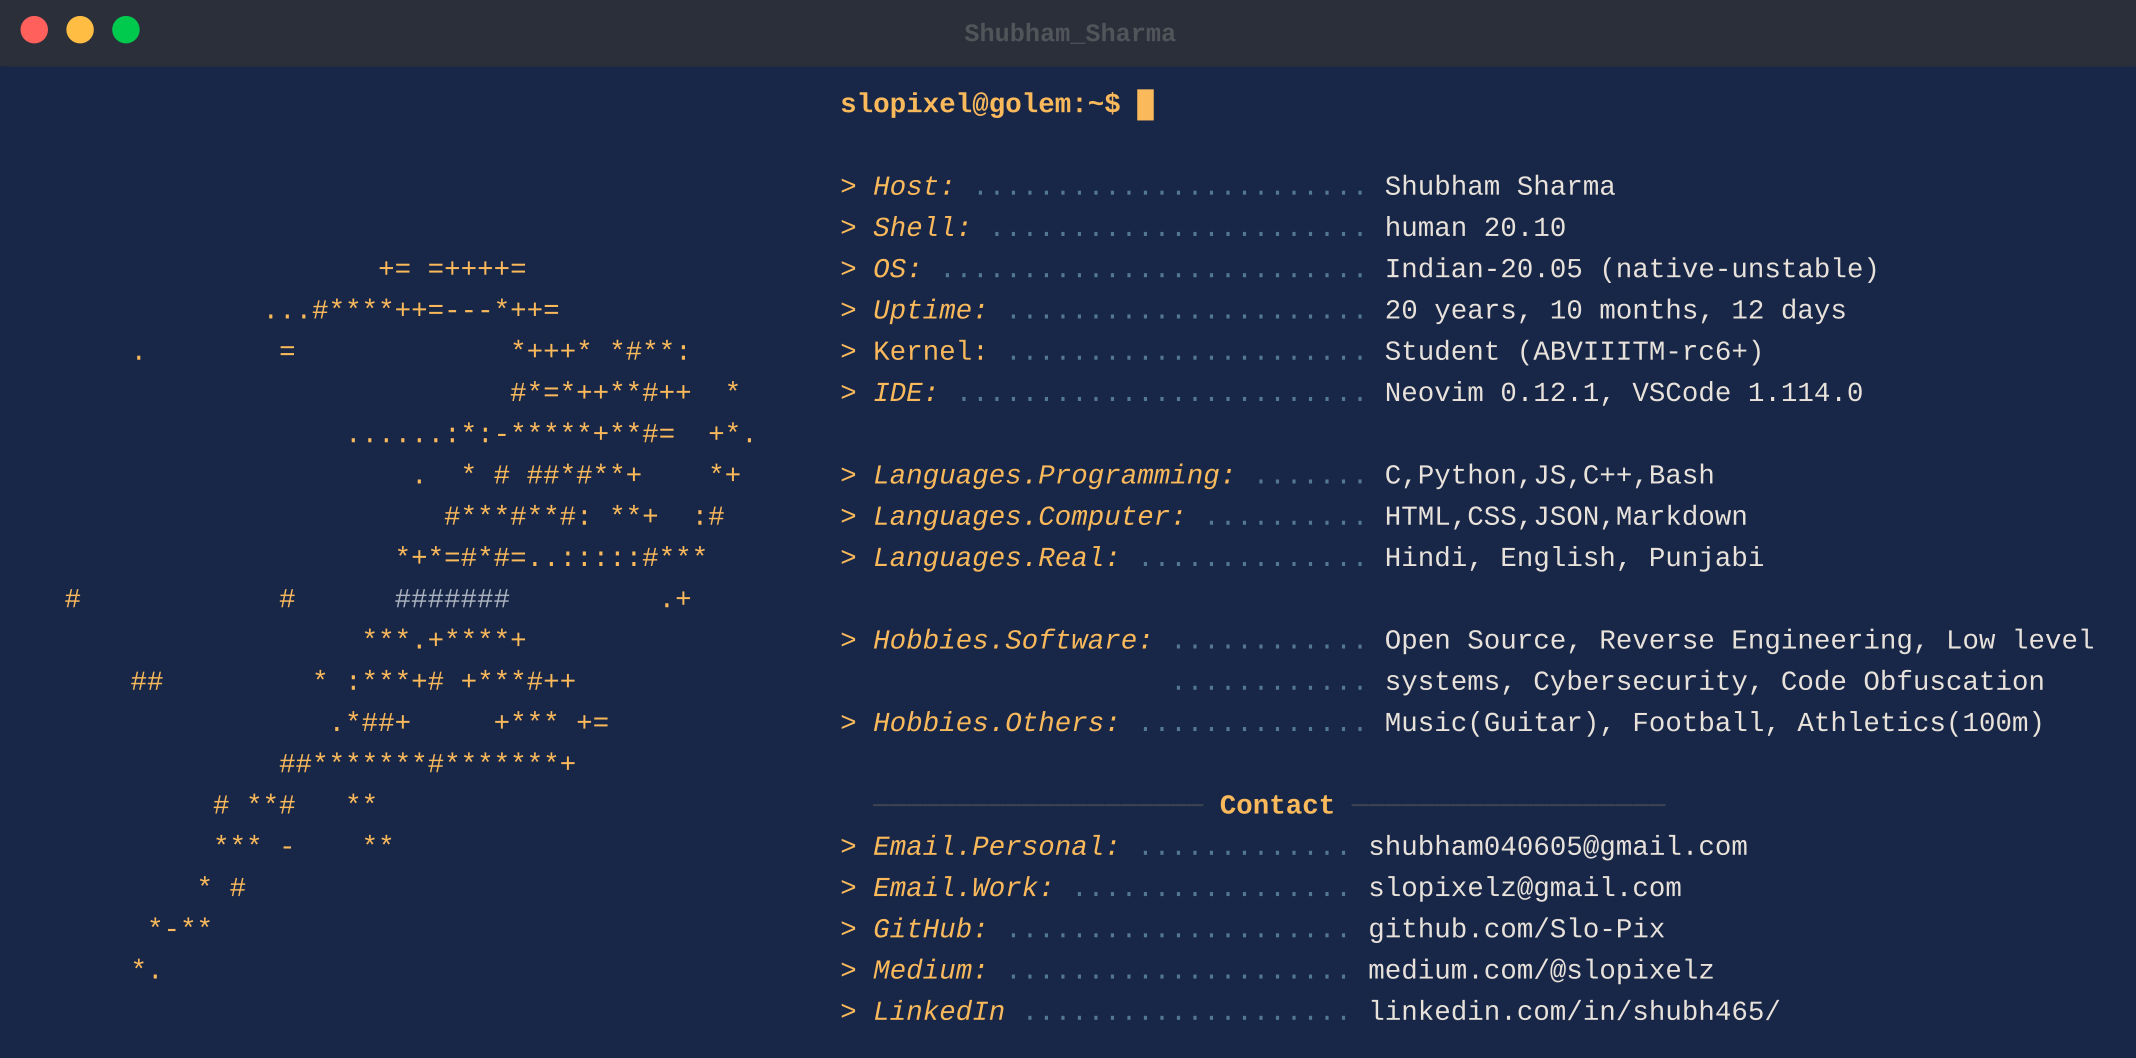
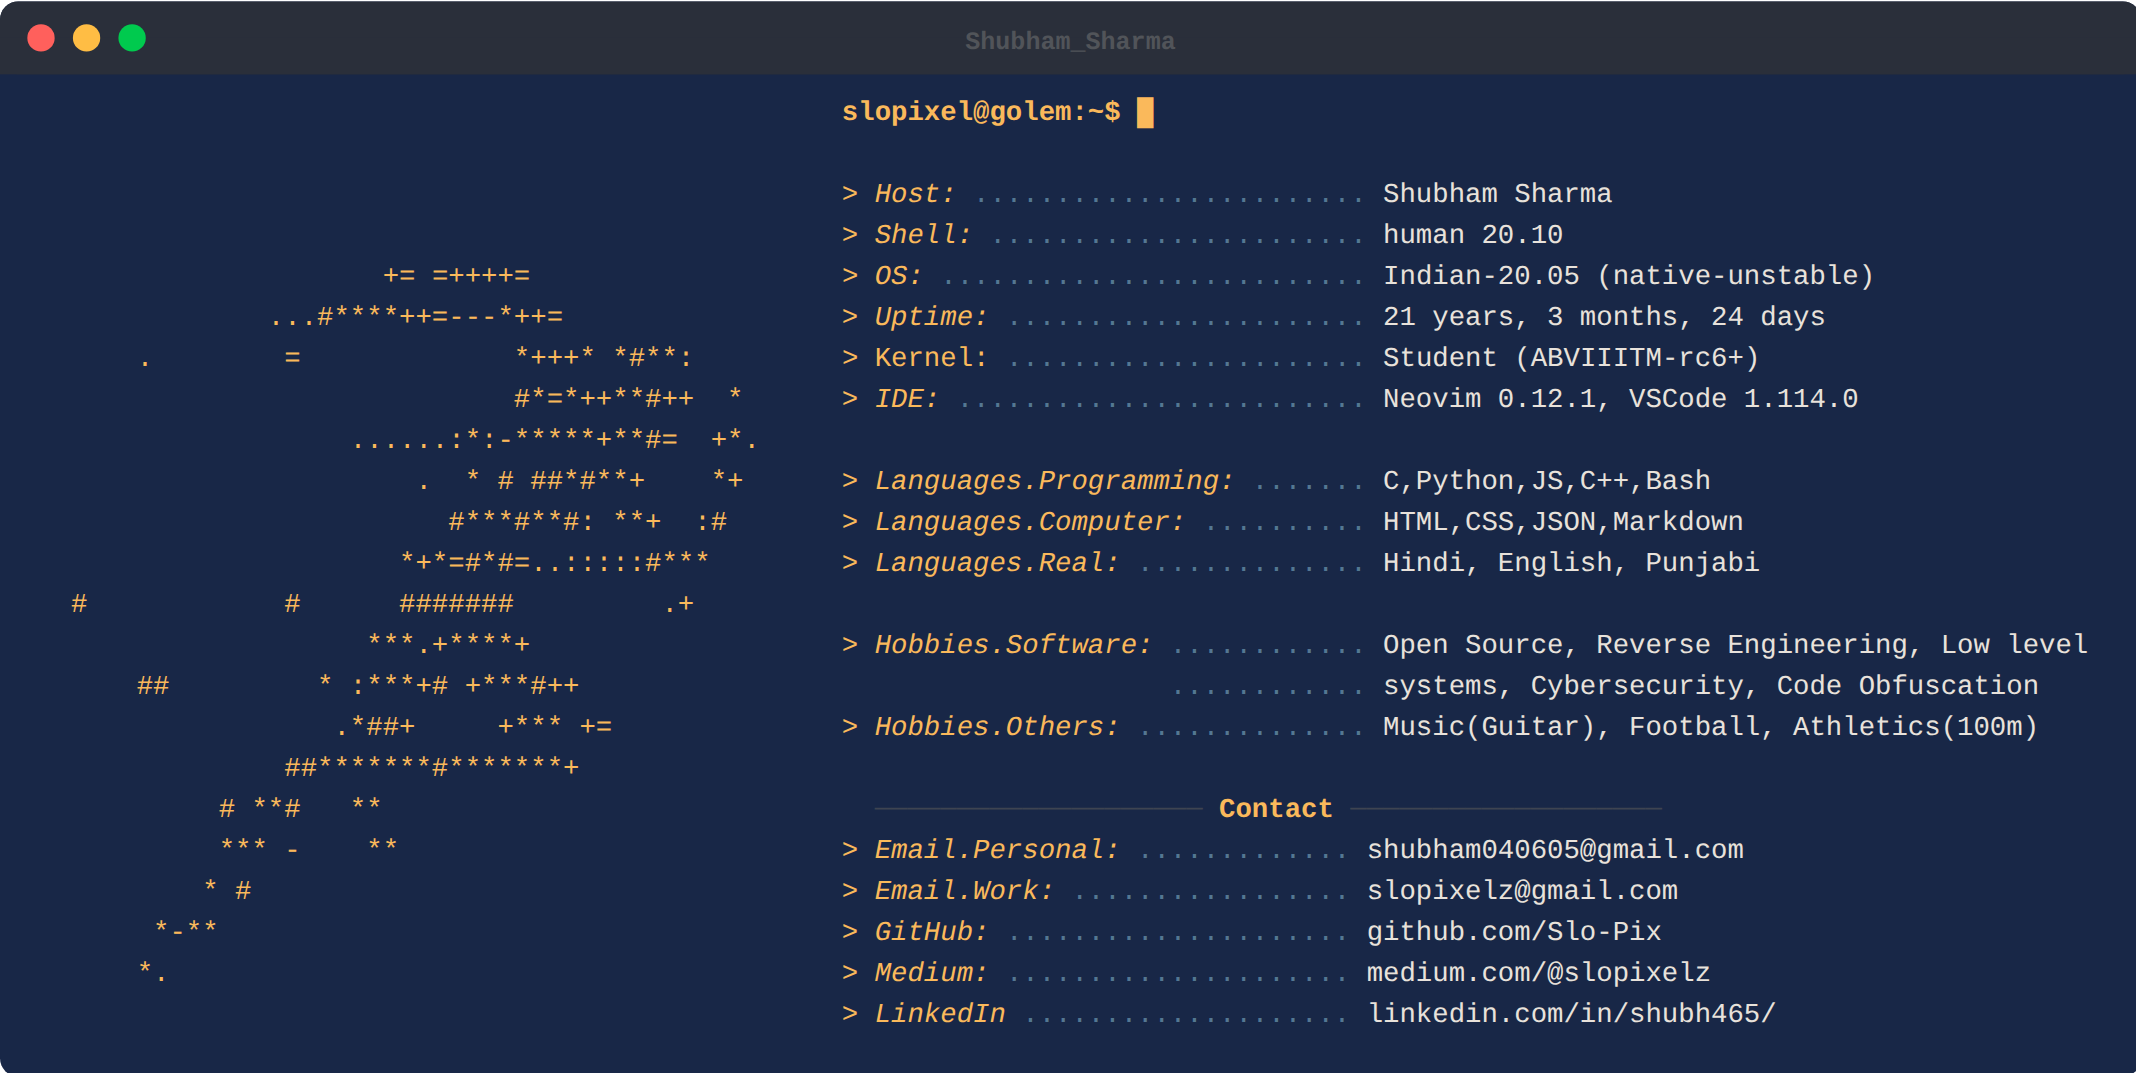
edit

diff --git a/README.md b/README.md
@@ -1,5 +1,5 @@
 <div align="center">
-  <img src="main.png" alt="shubham@golem:~$" style="max-width: 100%; height: auto;" />
+  <img src="readme-card.svg" alt="slopixel@golem:~$" style="max-width: 100%; height: auto;" />
 </div>
 
 ## > Build. Break. Learn. Repeat.
